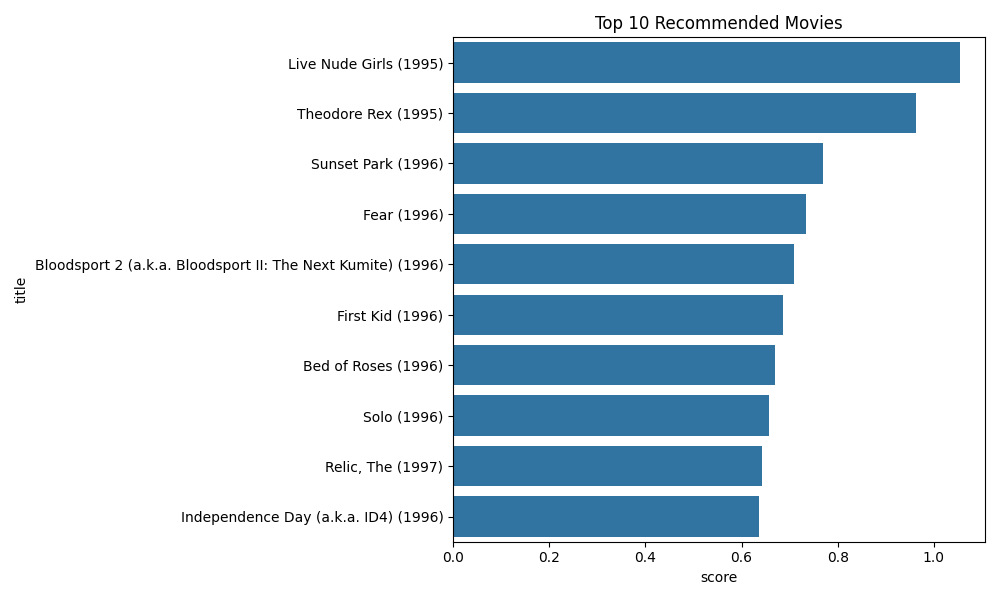
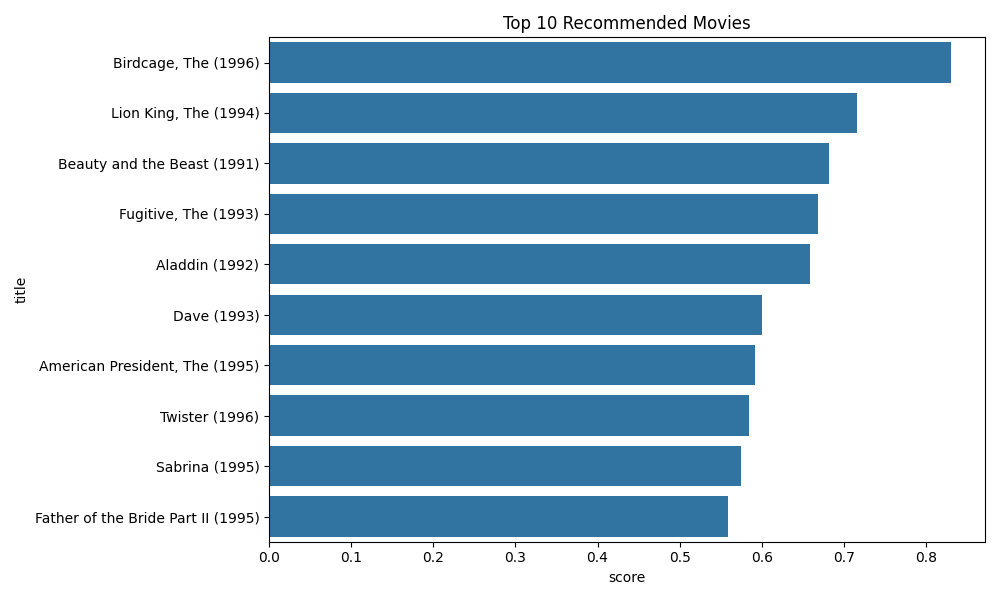
Analysis, user rating behaviour

diff --git a/analysis.py b/analysis.py
@@ -75,10 +75,9 @@ with patch("app.models.get_encryption_key") as mock_function:
     # Clean data
     rec_df = rec_df.drop_duplicates(subset="movieId")
 
-    # ✅ DEFINE top_n HERE
+
     top_n = rec_df.sort_values(by="score", ascending=False).head(10)
 
-    # ✅ THEN plot
     plt.figure(figsize=(10, 6))
     sns.barplot(data=top_n, x="score", y="title")
 
@@ -86,3 +85,15 @@ with patch("app.models.get_encryption_key") as mock_function:
     plt.tight_layout()
     
     plt.savefig("topRecommendations.png")
+    
+    
+    user_ratings = ratings[ratings["userId"] == user.id]
+
+    plt.figure(figsize=(8, 5))
+    sns.histplot(user_ratings["rating"], bins=10)
+
+    plt.title("User Rating Distribution")
+    plt.xlabel("Rating")
+    plt.ylabel("Count")
+    plt.tight_layout()
+    plt.savefig("userRatingBehaviour.png")
